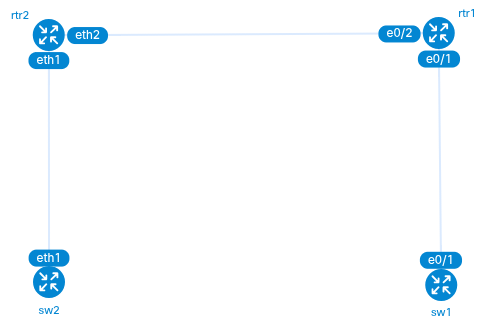
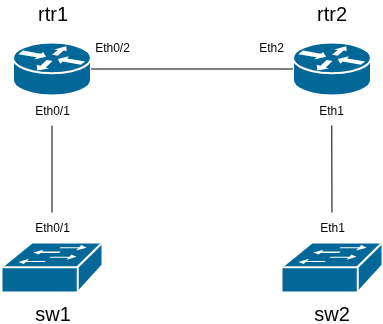
updates

diff --git a/README.md b/README.md
@@ -1,20 +1,24 @@
 # Automating Network Configuration Management with Ansible !!!DRAFT!!!
 ## Introduction
 
-This project demonstrates an example of automating network configuration management using Ansible for multi-vendor (Cisco & Arista) network devices. 
-It showcases Configuration as Code (CaC) approach with Source of Truth (SoT) defined in Github where network configurations are defined in YAML files and deployed using Ansible playbooks. Two different configuration methods are presented here:
+This project demonstrates an example of automating network configuration management using Ansible for multi-vendor network devices (Cisco & Arista). 
+It showcases **Configuration as Code (CaC)** approach with **Source of Truth (SoT)** defined in Github where network configurations are defined in YAML files and deployed using Ansible playbooks. Two different configuration methods are presented here:
 - declarative configuration with Ansible Network Resource modules
 - template-based configuration with Ansible Config modules 
 
+CaC approach requires configuration **paradigm shift** where we are switching to configuring network from SoT (this repository) not directly on devices. Configuration is then automatically implemented to network devices using Ansible.
+
 ## Network Topology
+The following lab environment has been created with Containerlab:
 
-![multivendor_topo](files/topo.png)
+![Network Topology](files/topo.png)  
 
-The lab environment consists of:
 - **rtr1**: Cisco IOS-XE Router (172.20.0.100)
 - **sw1**: Cisco IOS-XE Switch (172.20.0.101) 
 - **rtr2**: Arista EOS Router (172.20.0.102)
 - **sw2**: Arista EOS Switch (172.20.0.103)
+
+## Detailed Description
 
 
 ## Configuration Approaches
